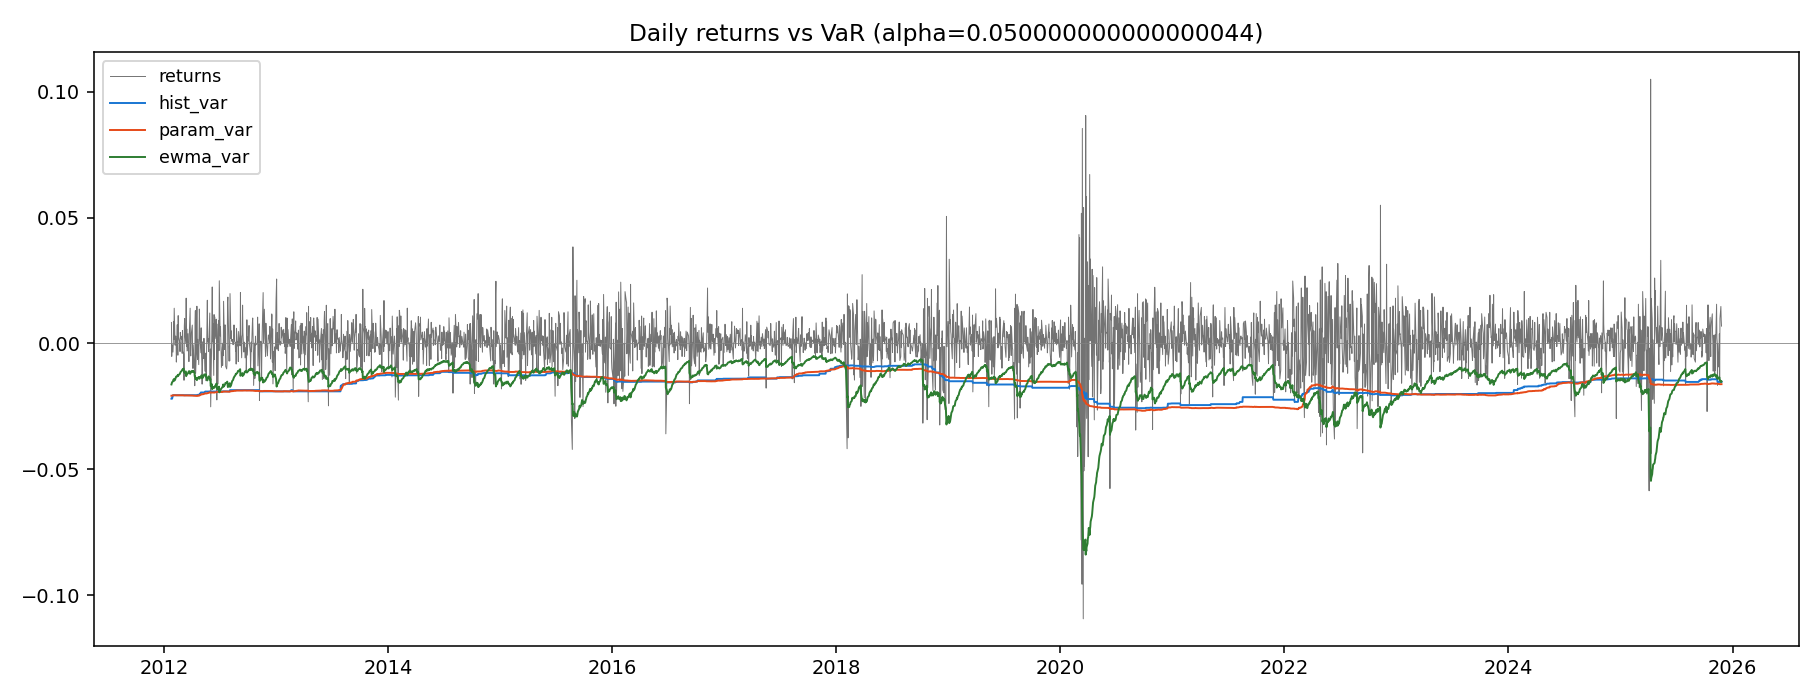
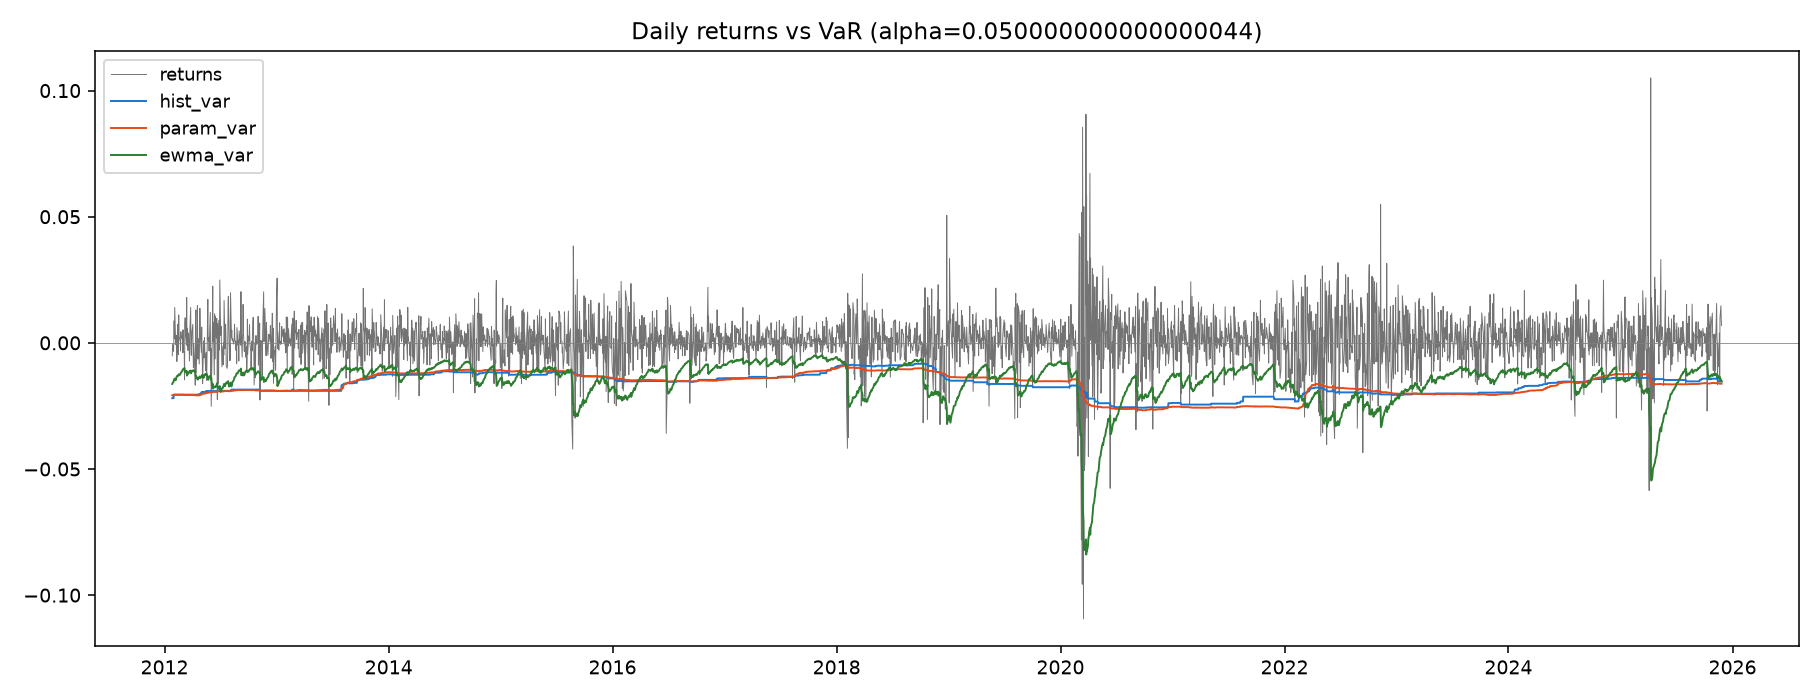
Fix look-ahead bias in VaR backtest and update README

diff --git a/src/var_calculator.py b/src/var_calculator.py
@@ -23,12 +23,13 @@ def expected_shortfall(returns, window=252, alpha=0.05):
     return returns.rolling(window).apply(es, raw=True)
 
 def regime_aware_var(returns, regimes, alpha=0.05, min_obs=30):
-    # parametric VaR fitted per regime (uses past regime-conditioned mu/sigma)
+    # parametric VaR per regime; day t uses the regime known at t-1 and returns up to t-1
     out = pd.Series(index=returns.index, dtype=float)
     z = stats.norm.ppf(alpha)
+    prev = regimes.shift(1)
     for t in range(min_obs, len(returns)):
-        r_past, g_past = returns.iloc[:t], regimes.iloc[:t]
-        cur = regimes.iloc[t]
+        r_past, g_past = returns.iloc[:t], prev.iloc[:t]
+        cur = prev.iloc[t]
         sub = r_past[g_past == cur]
         if len(sub) < min_obs:
             sub = r_past
@@ -36,12 +37,13 @@ def regime_aware_var(returns, regimes, alpha=0.05, min_obs=30):
     return out
 
 def calculate_all_var(returns, window=252, alpha=0.05):
+    # shift by one day so the VaR for day t only uses returns up to t-1
     return pd.DataFrame({
         'returns': returns,
-        'hist_var': historical_var(returns, window, alpha),
-        'param_var': parametric_var(returns, window, alpha),
-        'ewma_var': ewma_var(returns, alpha=alpha),
-        'es': expected_shortfall(returns, window, alpha),
+        'hist_var': historical_var(returns, window, alpha).shift(1),
+        'param_var': parametric_var(returns, window, alpha).shift(1),
+        'ewma_var': ewma_var(returns, alpha=alpha).shift(1),
+        'es': expected_shortfall(returns, window, alpha).shift(1),
     }).dropna()
 
 if __name__ == "__main__":

diff --git a/src/gmm_risk_states.py b/src/gmm_risk_states.py
@@ -27,10 +27,13 @@ def assign_state_names(Xs, labels, n_states):
                   [f'S{i}' for i in range(n_states)])
     return {s: bank[i] for i, s in enumerate(order)}
 
-def predict_risk_states(features, n_states=3):
+def predict_risk_states(features, n_states=3, fit_end=None):
     valid_idx = features[GMM_FEATS].dropna().index
-    gmm, scaler, labels, Xs = fit_gmm(features.loc[valid_idx], n_states)
-    names = assign_state_names(Xs, labels, n_states)
+    fit_idx = valid_idx[valid_idx < pd.Timestamp(fit_end)] if fit_end else valid_idx
+    gmm, scaler, fit_labels, fit_Xs = fit_gmm(features.loc[fit_idx], n_states)
+    names = assign_state_names(fit_Xs, fit_labels, n_states)
+    Xs = scaler.transform(features.loc[valid_idx, GMM_FEATS].values)
+    labels = gmm.predict(Xs)
     df = pd.DataFrame(index=valid_idx)
     df['risk_state'] = labels
     df['state_name'] = [names[s] for s in labels]

diff --git a/src/predict.py b/src/predict.py
@@ -8,8 +8,8 @@ from data_loader import calculate_features
 
 DEFAULT_GMM_PATH = os.path.join(os.path.dirname(os.path.dirname(__file__)), 'models', 'gmm_bundle.pkl')
 
-def fit_and_save_gmm(features, n_states=3, save_path=DEFAULT_GMM_PATH):
-    states_df, gmm, scaler, names = predict_risk_states(features, n_states=n_states)
+def fit_and_save_gmm(features, n_states=3, save_path=DEFAULT_GMM_PATH, fit_end=None):
+    states_df, gmm, scaler, names = predict_risk_states(features, n_states=n_states, fit_end=fit_end)
     os.makedirs(os.path.dirname(save_path), exist_ok=True)
     bundle = {'gmm': gmm, 'scaler': scaler, 'names': names,
               'features': GMM_FEATS, 'n_states': n_states}

diff --git a/src/visualize.py b/src/visualize.py
@@ -24,7 +24,7 @@ def plot_violations(returns, var, out_path, label='Historical'):
     ax.plot(idx, r, color='black', lw=0.5, alpha=0.6, label='returns')
     ax.plot(idx, v, color='#E64A19', lw=1.0, label=f'{label} VaR')
     ax.scatter(idx[viol], r[viol], color='red', s=14, zorder=3, label=f'violations (n={int(viol.sum())})')
-    ax.set_title(f'{label} VaR — violations'); ax.legend(fontsize=9)
+    ax.set_title(f'{label} VaR violations'); ax.legend(fontsize=9)
     fig.tight_layout(); fig.savefig(out_path, dpi=140); plt.close(fig)
     print(f"Saved: {out_path}")
 

diff --git a/src/data_loader.py b/src/data_loader.py
@@ -35,7 +35,7 @@ def calculate_features(df, window=20):
     f['downside_vol'] = df['returns'].rolling(window).apply(downside_std, raw=False)
     f['skew'] = df['returns'].rolling(window).skew()
     f['kurt'] = df['returns'].rolling(window).kurt()
-    # don't drop on missing volume — only require core return-derived features
+    # volume may be missing; only the return-based features are required
     core = ['returns', 'volatility', 'downside_vol', 'skew', 'kurt']
     return f.dropna(subset=core)
 

diff --git a/src/main.py b/src/main.py
@@ -47,7 +47,7 @@ def main():
     var_df.to_csv(os.path.join(args.out_dir, 'var_results.csv'))
 
     gmm_path = os.path.join('models', 'gmm_bundle.pkl')
-    states, bundle = fit_and_save_gmm(feats, n_states=args.n_states, save_path=gmm_path)
+    states, bundle = fit_and_save_gmm(feats, n_states=args.n_states, save_path=gmm_path, fit_end=args.test_start)
     gmm, scaler, names = bundle['gmm'], bundle['scaler'], bundle['names']
     states.to_csv(os.path.join(args.out_dir, 'risk_states.csv'))
 

diff --git a/README.md b/README.md
@@ -1,63 +1,30 @@
-# Integrated Market Risk Monitor: VaR & Machine Learning
+# Integrated Market Risk Monitor: VaR and Machine Learning
 
-## 1. Project Abstract
+Boyu Hou, University of Bristol
 
-Value-at-Risk (VaR) is how banks and regulators measure market risk. The problem is traditional VaR reacts slowly when market conditions shift. During March 2020, the S&P 500 fell 34% over 23 trading days. Standard VaR estimates, calibrated on pre-crisis data, failed to reflect this shift in real time.
+Four one-day 95% Value-at-Risk (VaR) forecasts for SPY are compared in this project, using daily prices from January 2010 to November 2025. Historical simulation and a parametric normal model are estimated on a rolling 500-day window. The EWMA model follows RiskMetrics with a decay factor of 0.94. The fourth forecast is regime-aware. Specifically, a three-component Gaussian mixture model (GMM) is fitted on 20-day volatility, 20-day downside volatility and the daily return, and its states are named Calm, Normal and Stress by volatility. The mean and standard deviation of the parametric VaR are then taken only from past days in the same regime. All forecasts for day t use data up to day t-1, and the GMM is fitted on data before 2023 only. An Isolation Forest flag and a 20-day Monte Carlo simulation per regime are also produced. However, both are descriptive and are not part of the backtest.
 
-This project implements a hybrid approach. I integrate Gaussian Mixture Models (GMM) with parametric VaR to enable regime-aware risk estimation. The GMM component identifies latent market states (Calm, Normal, Stress) without supervised labels. The VaR calculation then adjusts based on the detected regime.
+## Results
 
-## 2. Methodology
+The backtest is run over 729 trading days from January 2023 to November 2025, and each violation rate is compared with the nominal 5%. Violation rates of 5.49% and 5.76% are obtained for EWMA and the regime-aware forecast, and both are accepted by the Kupiec and Christoffersen tests at the 5% level. Historical simulation is found to be too conservative. Its violation rate is 3.43%, and it is rejected by the Kupiec test (p = 0.040). The parametric model gives 3.57% and is accepted only narrowly (p = 0.062). The regime-aware forecast is therefore acceptable, but it is not closer to the nominal rate than EWMA. Only one asset and one train-test split are used. The Stress state is first assigned on 27 February 2020, six trading days after the 19 February peak. However, this date lies inside the training period, so it is not an out-of-sample warning.
 
-**Dataset:** SPY (S&P 500 ETF) daily OHLCV data, January 2011 to November 2025. Approximately 3,500 observations.
+| Method | Violations (n = 729) | Rate | Kupiec p | Christoffersen p |
+|---|---:|---:|---:|---:|
+| Historical simulation | 25 | 3.43% | 0.040 | 0.271 |
+| Parametric normal | 26 | 3.57% | 0.062 | 0.312 |
+| EWMA | 40 | 5.49% | 0.552 | 0.585 |
+| Regime-aware (GMM) | 42 | 5.76% | 0.357 | 0.767 |
 
-### A. Baseline VaR Models
-
-I implemented three conventional VaR methods in `src/var_calculator.py` as control benchmarks:
-
-**Historical Simulation:** 500-day rolling window, non-parametric. Captures realized tail events but adapts slowly to new regimes.
-
-**Parametric VaR:** Assumes returns ~ N(μ, σ). I retained this method despite its underestimation of fat-tailed events because it serves as the industry standard baseline.
-
-**EWMA:** Decay factor λ = 0.94 per RiskMetrics (1996). Assigns greater weight to recent observations, improving volatility responsiveness.
-
-### B. Machine Learning Components
-
-**GMM Regime Detection** (`src/gmm_risk_states.py`)
-
-I fit a 3-component GMM on volatility and volume features. The clustering is unsupervised. I never told it which days were "crisis" days.
-
-Empirical observation: the GMM identified March 2020 as a Stress regime within 4 trading days of the drawdown onset. It also flagged the 2022 rate-hike driven correction. Neither event was explicitly labeled in training.
-
-**Isolation Forest Anomaly Detection** (`src/anomaly_detector.py`)
-
-Isolation Forest detects statistical outliers that fall outside normal cluster behavior. I use this as a secondary alert mechanism. Days flagged by Isolation Forest receive additional scrutiny regardless of GMM classification.
-
-### C. Validation Framework
-
-**Walk-Forward Backtesting** (`src/backtest.py`)
-
-I train on historical data, test on future data, then roll the window forward. The model never sees tomorrow's prices during training.
-
-**Monte Carlo Simulation** (`src/portfolio_forecast.py`)
-
-10,000 path simulations conditioned on current regime state. If GMM indicates Stress, the simulation draws from stress-period volatility parameters rather than the unconditional 14-year average.
-
-## 3. Usage
-
-**Requirements:** Python 3.8+, scikit-learn, pandas, numpy, scipy
+## Usage
 
 ```bash
 pip install -r requirements.txt
-python src/main.py --ticker SPY --window 500 --confidence 0.95
+python src/main.py
 ```
 
-## 4. References
+## References
 
 - Jorion, P. (2006). *Value at Risk: The New Benchmark for Managing Financial Risk*. McGraw-Hill.
 - RiskMetrics Group (1996). *RiskMetrics Technical Document*. J.P. Morgan.
-- Liu, F., Ting, K., & Zhou, Z. (2008). "Isolation Forest". IEEE ICDM, pp. 413–422.
-- Bishop, C. (2006). *Pattern Recognition and Machine Learning*. Springer.
-
----
-
-*Billy Hou | University of Bristol | 2025*
+- Liu, F. T., Ting, K. M., and Zhou, Z.-H. (2008). Isolation Forest. IEEE ICDM, pp. 413-422.
+- Bishop, C. M. (2006). *Pattern Recognition and Machine Learning*. Springer.
